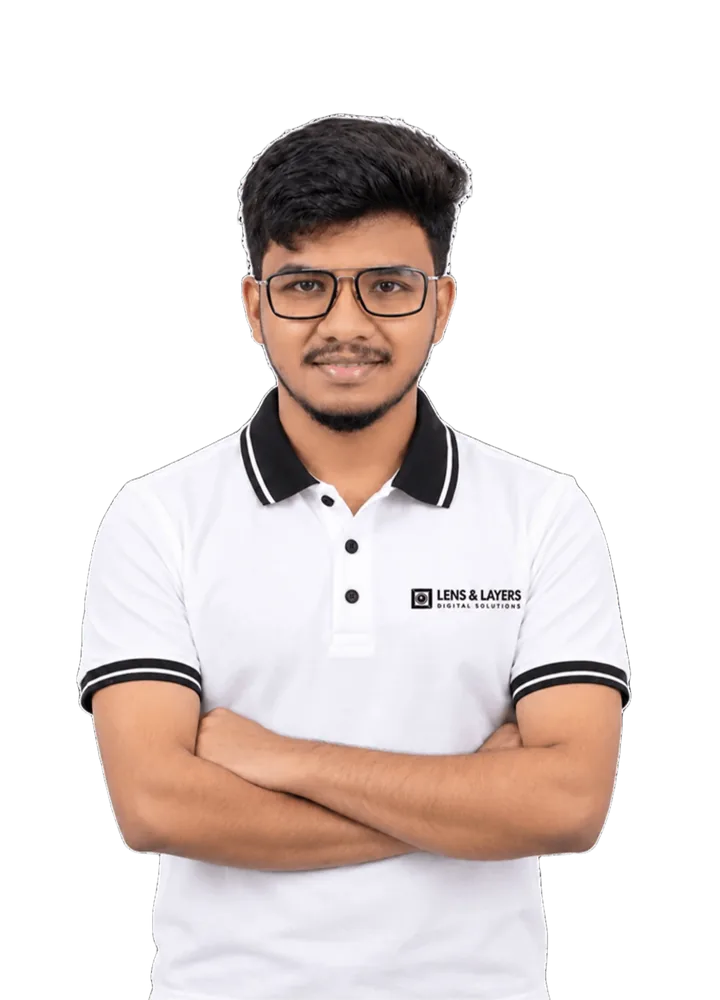
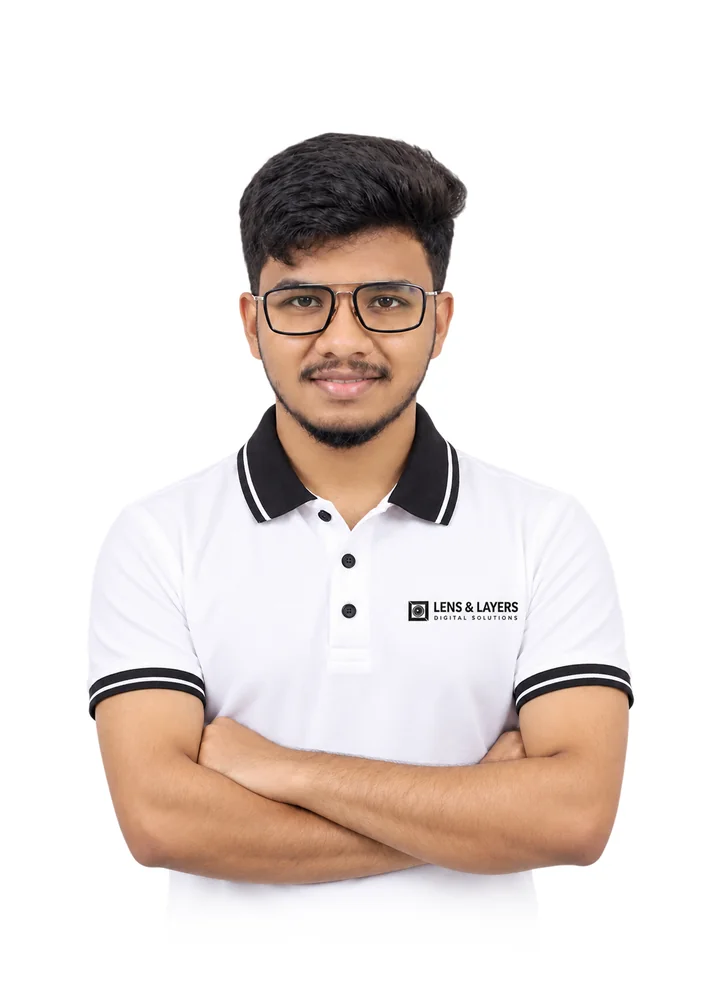
Full names for team members and a new photo for Vivan

Changed region(s): [[0.0917, 0.589, 0.8861, 1.0], [0.3056, 0.093, 0.6722, 0.62]]

diff --git a/src/team.ts b/src/team.ts
@@ -27,13 +27,13 @@ export const team: TeamMember[] = [
     focus: ["Creative direction", "Commercial campaigns", "Brand architecture", "Multi-channel marketing"],
   },
   {
-    id: "LL-002", slug: "deepak", name: "Deepak", role: "Head of Media House & Operations",
+    id: "LL-002", slug: "deepak", name: "Deepak H K", role: "Head of Media House & Operations",
     department: "Creative Leadership & Media Operations",
     summary: "Spearheads entire media production logistics, equipment pipelines, studio scheduling, and commercial delivery. Ensures multi-channel creative productions run smoothly from initial brief to broadcast-ready master delivery.",
     focus: ["Production logistics", "Studio scheduling", "Equipment pipelines", "Broadcast delivery"],
   },
   {
-    id: "LL-003", slug: "vikas", name: "Vikas", role: "3D & VFX Artist",
+    id: "LL-003", slug: "vikas", name: "Vikas H C", role: "3D & VFX Artist",
     department: "Post-Production, VFX & Graphic Design",
     summary: "3D artist covering asset creation, photorealistic environment texturing, and dynamic visual effects compositing. Transforms concept storyboards into immersive 3D sequences and visual effects for cinematic commercials.",
     focus: ["3D asset creation", "Environment texturing", "VFX compositing", "CGI commercials"],
@@ -45,19 +45,19 @@ export const team: TeamMember[] = [
     focus: ["Video editing", "Motion graphics", "Color grading", "Social cuts"],
   },
   {
-    id: "LL-005", slug: "abhishek", name: "Abhishek", role: "Graphic Designer",
+    id: "LL-005", slug: "abhishek", name: "Abhishek Kavaloor", role: "Graphic Designer",
     department: "Post-Production, VFX & Graphic Design",
     summary: "Crafts distinct visual brand languages across identity systems, print collateral, key visual campaign posters, and digital marketing creatives. Focuses on typographic precision, bold layout composition, and marketing resonance.",
     focus: ["Brand identity", "Print collateral", "Campaign key visuals", "Typography"],
   },
   {
-    id: "LL-006", slug: "vivan", name: "Vivan", role: "Web Developer",
+    id: "LL-006", slug: "vivan", name: "Vivan Rajath", role: "Web Developer",
     department: "Engineering, Analytics & Content",
     summary: "Architects modern, responsive web experiences, interactive agency showcases, and robust digital platforms. Ensures lightning-fast load speeds, responsive layouts across devices, and clean, scalable code architecture.",
     focus: ["Responsive websites", "Interactive showcases", "Performance", "Scalable code"],
   },
   {
-    id: "LL-007", slug: "rachana", name: "Rachana", role: "Business & Data Analyst",
+    id: "LL-007", slug: "rachana", name: "Rachana S", role: "Business & Data Analyst",
     department: "Engineering, Analytics & Content",
     summary: "Analyzes market patterns, campaign metrics, audience behaviors, and business ROI data. Converts raw analytical tracking into strategic business decisions and growth recommendations for creative campaigns.",
     focus: ["Campaign metrics", "Audience insights", "ROI analysis", "Growth strategy"],
